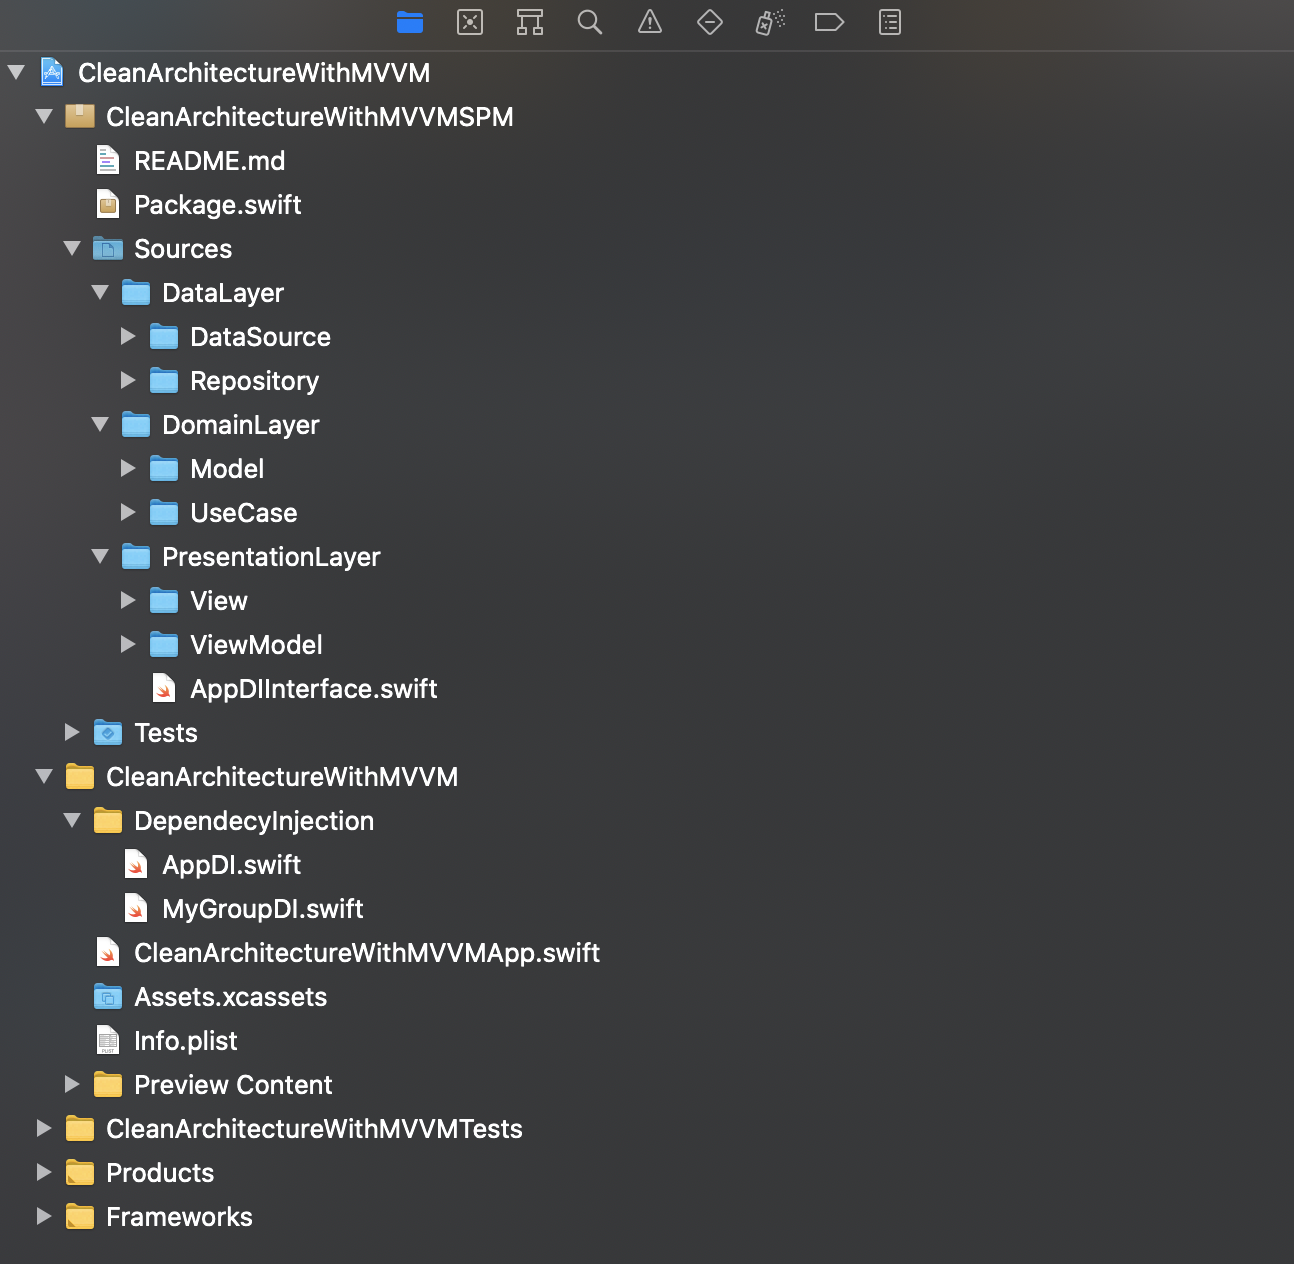
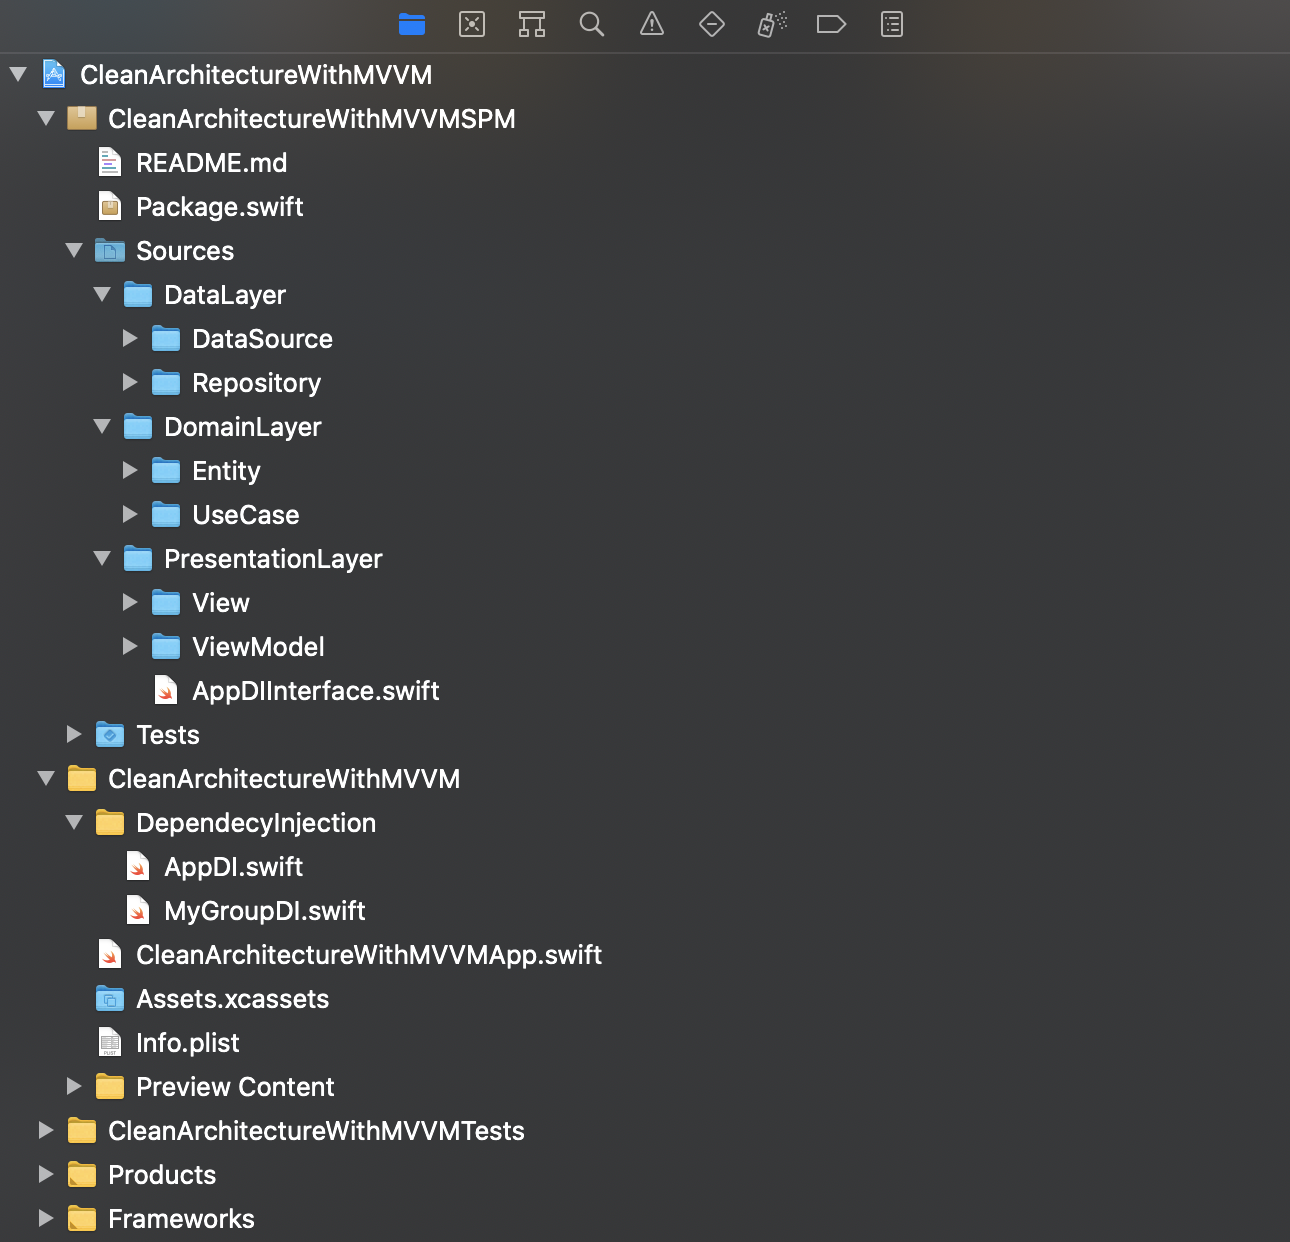
Update Clean architecture post

diff --git a/_posts/2021-01-18-[iOS, Swift] Clean Architecture with MVVM DesignPattern on iOS.md b/_posts/2021-01-18-[iOS, Swift] Clean Architecture with MVVM DesignPattern on iOS.md
@@ -231,13 +231,13 @@ public final class FetchMyGroupListUseCase: FetchMyGroupListUseCaseInterface {
 public protocol GroupRepositoryInterface {
     func fetchMyGroupList(completion: @escaping (Result<[MyGroupEntity], Error>) -> Void) -> Cancellable?
 }
-```  
+```
 - `execute()` 부분이 Business Logic을 처리하는 부분, 별도의 비지니스 로직이 필요하면 이곳에 추가
 - `GroupRepositoryInterface` 부분과 처음부분에서 설명한 [의존성 주입 (DI: Dependency Injection)](#의존성-주입-di-dependency-injection) 부분이 DomainLayer와 DataLayer 간의 `Dependency Inversion` 구현을 가능하게 함
 
 # 3. Presentation Layer 구현
 - MVVM 디자인 패턴으로 구현
-- VIEW -Dependency-> VIEWMODEL -Dependency-> MODEL
+- VIEW -Dependency-> VIEWMODEL -Dependency-> MODEL(Entity)
 
 ## 3-1. ViewModel
 ### GroupViewModel.swift
@@ -367,7 +367,7 @@ public final class GroupRepository: GroupRepositoryInterface {
           case .success(let myGroupModels):
               var myGroupEntities = [MyGroupEntity]()
               for myGroupModel in myGroupModels {
-                  myGroupEntities.append(myGroupModel.dotMyGroupEntity())
+                  myGroupEntities.append(myGroupModel.dtoMyGroupEntity())
               }
               completion(.success(myGroupEntities))
           case .failure(let error):
@@ -382,23 +382,23 @@ public final class GroupRepository: GroupRepositoryInterface {
 ## 4-2. DataSource
 - DB 및 외부 API등을 통해 데이터를 가져오는 부분
 
-### DataModel & DOT(Data Object Transfer) (GroupDataSource.swift)
+### DataModel & DTO(Data Transfer Object) (GroupDataSource.swift)
 ```swift
-public struct GroupModel: Codable {
+public struct GroupModelDTO: Codable {
     let image: String
     let name: String
     let date: String
     let address: String
     let memberCount: Int
 
-    // DOT: Data Object Transfer
-    public func dotMyGroupEntity() -> MyGroupEntity {
+    // DTO: Data Transfer Object
+    public func dtoMyGroupEntity() -> MyGroupEntity {
         return MyGroupEntity(id: self.name, image: self.image, name: self.name, date: self.date)
     }
 }
 ```
 - `DataSource`에서 가져오는 데이터 모델
-- 데이터 값을 [Domain Layer](#2-domain-layer-구현)에서 사용하는 Entity값으로 변환가능(Data Object Transfer)
+- 데이터 값을 [Domain Layer](#2-domain-layer-구현)에서 사용하는 Entity값으로 변환가능(Data Transfer Object)
 
 ### GroupLocalDataSource (GroupDataSource.swift)
 ```swift
@@ -407,7 +407,7 @@ import Combine
 import DomainLayer
 
 public protocol GroupDataSourceInterface {
-    func fetchMyGroupList(completion: @escaping (Result<[GroupModel], Error>) -> Void) -> Cancellable?
+    func fetchMyGroupList(completion: @escaping (Result<[GroupModelDTO], Error>) -> Void) -> Cancellable?
 }
 
 public final class GroupLocalDataSource: GroupDataSourceInterface {
@@ -426,10 +426,10 @@ public final class GroupLocalDataSource: GroupDataSourceInterface {
 
     public init() {}
 
-    public func fetchMyGroupList(completion: @escaping (Result<[GroupModel], Error>) -> Void) -> Cancellable? {
+    public func fetchMyGroupList(completion: @escaping (Result<[GroupModelDTO], Error>) -> Void) -> Cancellable? {
         return Just(GroupLocalDataSource.myGroups)
             .tryMap { try JSONSerialization.data(withJSONObject: $0, options: .prettyPrinted) }
-            .decode(type: [GroupModel].self, decoder: JSONDecoder())
+            .decode(type: [GroupModelDTO].self, decoder: JSONDecoder())
             .replaceError(with: [])
             .eraseToAnyPublisher()
             .sink { myGroups in
@@ -456,13 +456,13 @@ public final class GroupRemoteDataSource: GroupDataSourceInterface, GroupRemoteD
         self.urlString = urlString
     }
 
-    public func fetchMyGroupList(completion: @escaping (Result<[GroupModel], Error>) -> Void) -> Cancellable? {
+    public func fetchMyGroupList(completion: @escaping (Result<[GroupModelDTO], Error>) -> Void) -> Cancellable? {
 
         return URLSession
             .shared
             .dataTaskPublisher(for: URL(string: urlString)!)
             .map(\.data)
-            .decode(type: [GroupModel].self, decoder: JSONDecoder())
+            .decode(type: [GroupModelDTO].self, decoder: JSONDecoder())
             .replaceError(with: [])
             .eraseToAnyPublisher()
             .sink { myGroups in
